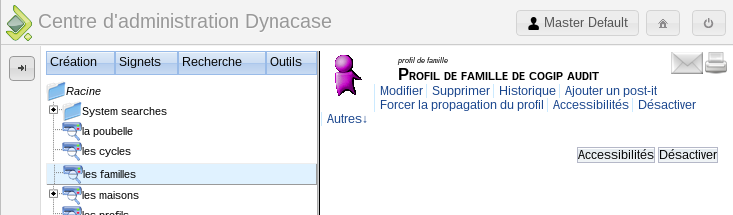
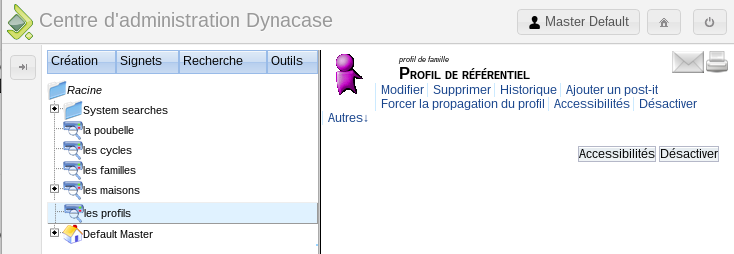
fix(securite): correct securite

diff --git a/Contents/30-Famille/50-securite.md b/Contents/30-Famille/50-securite.md
@@ -19,14 +19,14 @@ Lors de la phase de spécification, les droits suivants ont été identifiés. L
     * Suppression : Uniquement par les utilisateurs ayant le rôle : Auditeur.
 + Audit :
     * Création : Uniquement par les utilisateurs ayant le rôle : Responsable des audits,
-	* <span class="flag fixme inline">et pour RUD ?</span>
+    * Les droits de vue, modification et suppression seront abordés lors de la réalisation du cycle de vie,
 + Fiche de non-conformité :
     * Création : Uniquement par les utilisateurs ayant le rôle : Responsable des audits.
-	* <span class="flag fixme inline">et pour RUD ?</span>
+    * Les droits de vue, modification et suppression seront abordés lors de la réalisation du cycle de vie,
 
 La définition des familles doit pouvoir être mise à jour par les administrateurs fonctionnels.
 
-En outre, il y a une demande particulière, les auditeurs veulent que dans les fiches de non conformité la partie **Écart** peut être vue par tous les utilisateurs pouvant voir le document, mais être modifiée uniquement par les auditeurs. <span class="flag inline fixme">les droits pour les personnels autres que les responsables audit ne sont pas précisés au préalable.</span>
+En outre, il y a une demande particulière, les auditeurs veulent que dans les fiches de non conformité la partie **Écart** puisse être vue par tous les utilisateurs pouvant voir le document, mais être modifiée uniquement par les auditeurs.
 
 ## Théorie {#quickstart:98e77eba-96ad-49cb-9eae-19ef01141fc2}
 
@@ -37,7 +37,10 @@ Un profil est une matrice de droits. Il permet d'indiquer quel utilisateur/group
 * _statique_ : l'affectation ne varie pas suivant le contenu du document,
 * _dynamique_ : l'affectation varie suivant le contenu du document.
 
-La modification de la représentation en fonction du type d'utilisateur est elle réalisée à l'aide de [contrôle de vue][DocCVDOC]. Ce type de document permet d'indiquer des règles de composition de la vue d'un document en fonction des droits de l'utilisateur.<span class="flag fixme">Il faut peut-être ajouter un § présentant les contrôles de vue, comme cela est fait pour les profils</span>
+On peut compléter la notion de sécurité avec deux autres éléments :
+
+* le [masque][DocMasque] : c'est un document permettant de re-définir les visibilités pour une famille, le masque est associé à un document via un cycle de vie ou un contrôle de vue et permet de rendre des attributs invisibles, non-modifiables, etc...,
+* le [contrôle de vue][DocCVDOC] : ce type de document permet d'indiquer des règles de composition de la vue d'un document en fonction des droits de l'utilisateur. Il permet notamment d'utiliser un masque pour changer les visibilités suivant le profil d'un attribut.
 
 ## Profil de famille {#quickstart:1aecb6e4-0046-4ecc-b9d0-8af9e13faf9b}
 
@@ -66,19 +69,19 @@ Déroulez la liste et choisissez le type de document `Profil de famille`. L'inte
 
 ![ Création document profil famille ](30-50-docadmin-creation-pfam.png "Création document profil famille")
 
-Complétez le titre avec `Profil de référentiel`<span class="flag inline fixme">Profil Audit ? J'ai l'impression  que ça ne corrrespond pas à la capture</span> et cliquez sur `Créer`. Vous obtenez l'interface suivante :
+Complétez le titre avec `Profil de référentiel` et cliquez sur `Créer`. Vous obtenez l'interface suivante :
 
 ![ Profil famille désactivé ](30-50-docadmin-pfam-consult.png "Profil famille désactivé")
 
 ### Paramétrage {#quickstart:1cd2c714-d287-4ca6-8282-c5a20393c0ea}
 
-Le profil de famille est créé désactivé. C'est à dire qu'il n'y a aucun droits associés à celui-ci donc tous les documents associés à ce profil sont libres d'accès.<span class="flag fixme">Pour moi `désactivé` signifie non appliqué.</span> <span class="flag fixme">Profil de famille => …tous les documents… ?.</span>
+Le profil de famille est créé désactivé. C'est à dire que toutes les familles associées à ce profil sont libres d'accès donc tous les utilisateurs peuvent effectuer toutes les actions.
 
 Cliquez sur `Activer` en bas à droite. L'interface se recharge.
 
 ![ Profil famille activé ](30-50-docadmin-pfam-active.png "Profil famille activé")
 
-Le profil de famille est maintenant activé. Il n'y a aucun droit associé au profil donc tous les documents associés à ce profil ne peuvent plus être utilisé.<span class="flag fixme">Profil de famille => …tous les documents… ?.</span>
+Le profil de famille est maintenant activé. C'est à dire que toutes les familles associées à ce profil sont restreintes donc aucun utilisateur (sauf l'administrateur) peut effectuer une action.
 
 Cliquez sur `Accessibilités`. Une nouvelle fenêtre s'ouvre et présente la matrice de droits.
 
@@ -90,9 +93,7 @@ Vous allez créer le profil pour les familles Chapitres et Référentiels.
 
 Cliquez sur le bouton `∴` devant `Auditeur`. L'interface devient semblable à :
 
-<span class="flag inline fixme">Capture identique à la précédente</span>
-
-![ Profil famille matrice de droits : modification ](30-50-docadmin-pfam-rights.png "Profil famille matrice de droits : modification")
+![ Profil famille matrice de droits : modification ](30-50-docadmin-pfam-edit-rights.png "Profil famille matrice de droits : modification")
 
 Cochez ensuite les cases `Create` et `Créer manuellement`.
 
@@ -307,7 +308,7 @@ Le [contrôle de vue][DocCVDOC] va vous permettre de définir des [masques][DocM
 
 ### Masque {#quickstart:0d5ee6ee-aafb-4a1f-b3fc-b0a0ef9d3fd9}
 
-Vous allez commencer par créer le [masque][DocMasque].<span class="flag fixme">Ajouter une présentation du _masque_ en introduction (comme profils et contrôle de vue au § [Théorie](#quickstart:98e77eba-96ad-49cb-9eae-19ef01141fc2) ?</span>
+Vous allez commencer par créer le [masque][DocMasque].
 
 #### Création {#quickstart:fa8b629c-79a7-42d0-a0f2-d6efc0dfa01d}
 
@@ -373,8 +374,8 @@ Chaque ligne vous propose les options suivantes :
 * `Type` : le type de vue soit une vue d'édition (modification), soit de consultation,
 * `Zone` : indique la [zone][DocZone] utilisée pour représenter le document, une zone permet de re-définir complètement la représentation d'un document,
 * `Masque` : indique le [masque][DocMasque] associé à cette vue, le masque permet de définir les visibilités applicable lors de la représentation du document,
-* `Affichable` : indique si la vue sera représentée sous la forme d'un menu ajouté à la représentation standard du document ou deviendra la représentation standard du document,<span class="flag inline fixme">reformulation : indique si la vue est accessible via un menu sur le document, ou est utilisée directement pour l'affichage du document</span>
-* `Ordre` : en cas d'ambigüité <span class="flag inline release from">réforme 1990 :)</span> sur l'attribution de la vue aux utilisateurs c'est la vue ayant l'ordre le plus faible qui est sélectionnée.
+* `Affichable` : indique si la vue est accessible via un menu sur le document,
+* `Ordre` : en cas d'ambigüité sur l'attribution de la vue aux utilisateurs c'est la vue ayant l'ordre le plus faible qui est sélectionnée.
 
 Vous allez ajouter deux vues :
 
@@ -389,7 +390,7 @@ Cliquez sur sauver.
 
 #### Paramétrage {#quickstart:2e34eab3-a689-493a-b313-b6e3267c5d3b}
 
-Vous allez maintenant paramétrer les droits associés au contrôle de vue : <span class="flag inline fixe"> ce qui permet de dire quel utilisateur peut consulter quelle vue => ceci permet d'exprimer quelles vues sont proposées à l'utilisateur en fonction des rôle ou groupe.</span>.
+Vous allez maintenant paramétrer les droits associés au contrôle de vue ceci permet d'exprimer quelles vues sont proposées à l'utilisateur en fonction des rôle ou groupe.
 
 Cliquez sur `Autres > Sécurité > Profil dédié`. La page se recharge, cliquez maintenant sur `Autres > Sécurité > Accessibilités...`.
 
